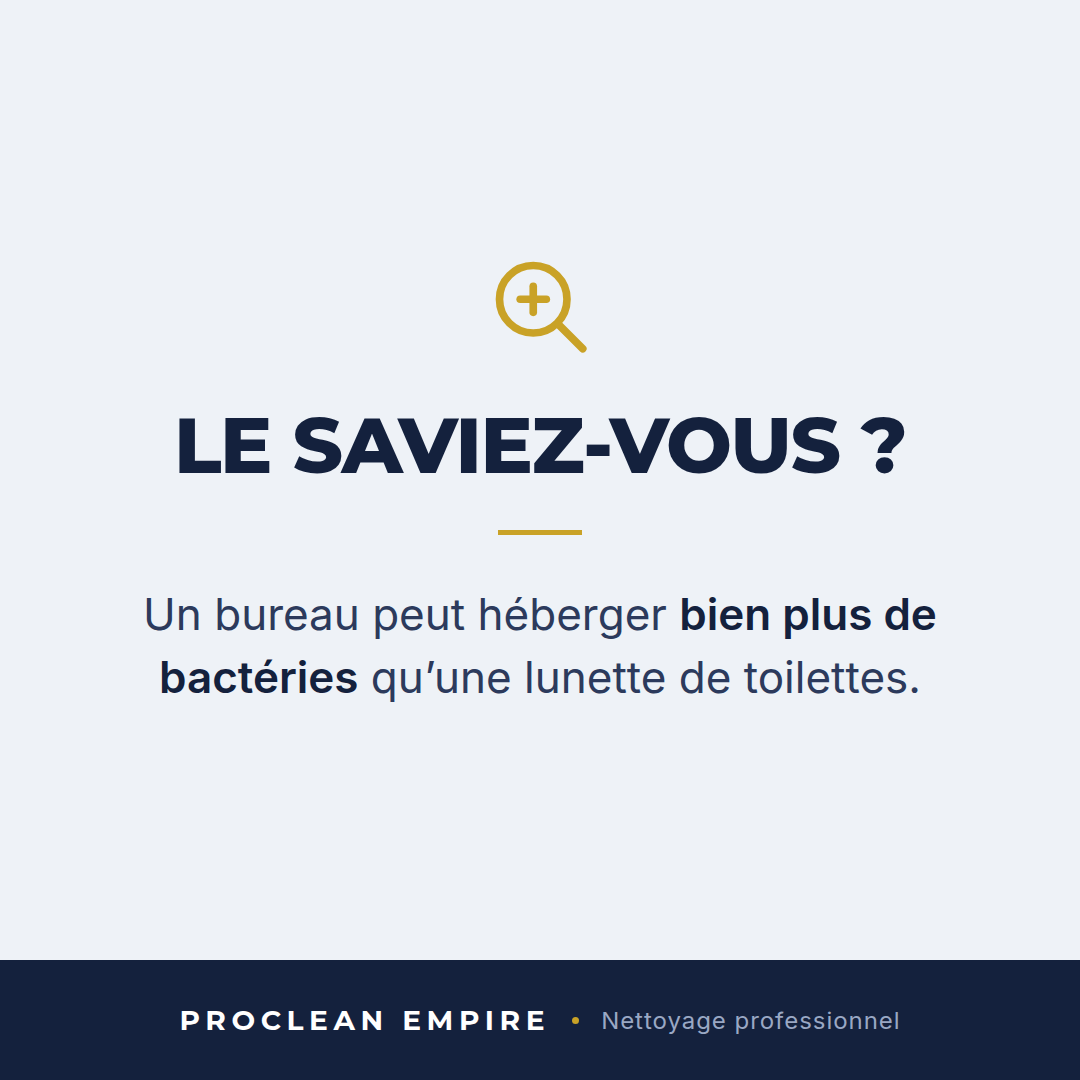
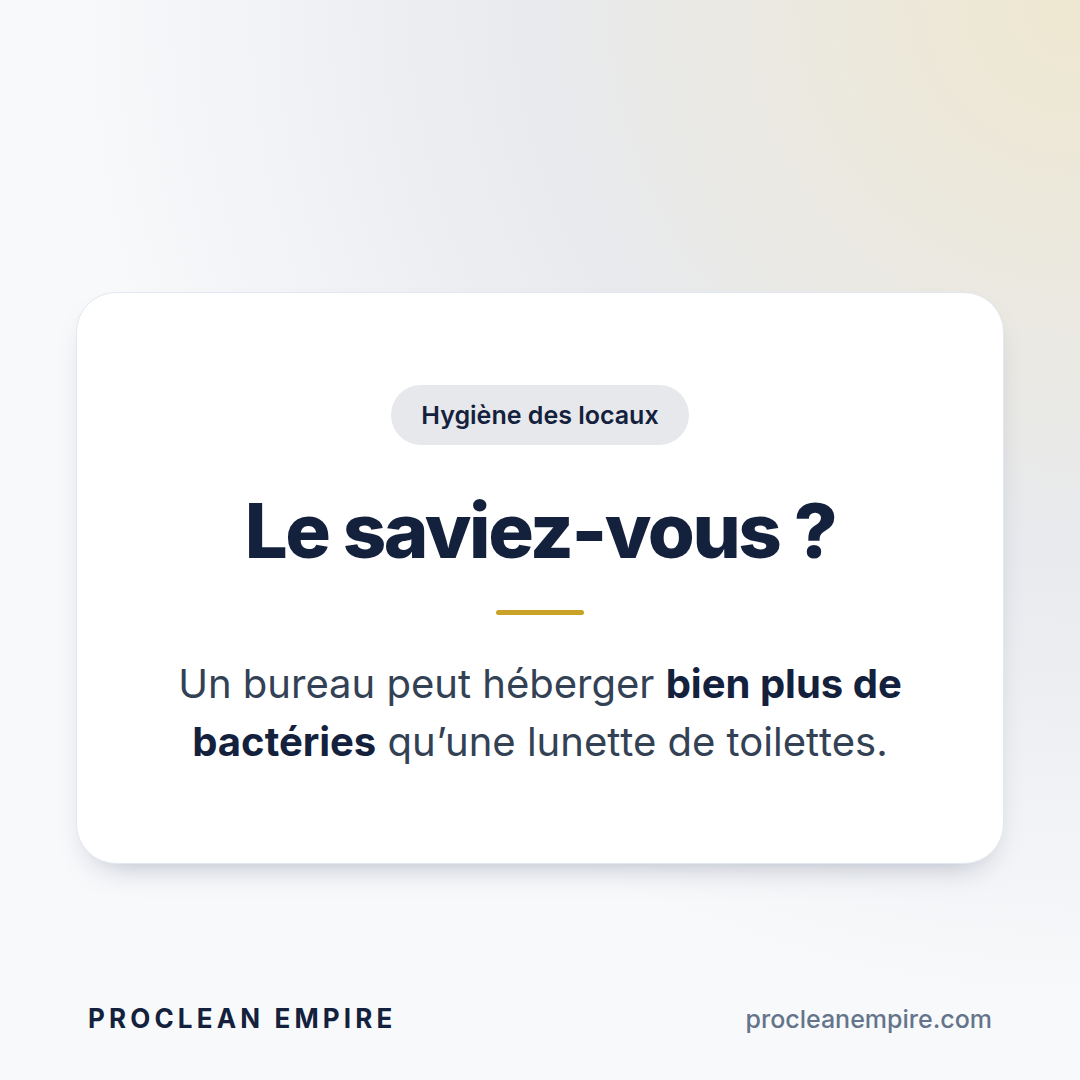
Rebuild post visuals in the site's own visual language
The first pass used flat navy cards, which inverted the site: globals.css
sets a light #f8f9fb ground with navy text, and the hero pairs a gold
radial glow with white rounded cards on soft shadows. The site also runs
on Inter throughout, not Montserrat.

Visuals now reuse those tokens directly - light ground, gold glow, pill
eyebrow, white rounded panel, navy primary button - so posts and site
read as one identity.

Adds a fourth visual for the Tuesday before/after slot, built from the
red leather photos already in public/media/photos.

Claude-Session: https://claude.ai/code/session_01Mxdu93gp3qUqySFn8KFPEm

diff --git a/docs/reseaux-sociaux/visuels/visuels.html b/docs/reseaux-sociaux/visuels/visuels.html
@@ -3,137 +3,241 @@
 <head>
 <meta charset="utf-8">
 <style>
-  @font-face { font-family: "Montserrat"; src: url("node_modules/@fontsource/montserrat/files/montserrat-latin-400-normal.woff2") format("woff2"); font-weight: 400; }
-  @font-face { font-family: "Montserrat"; src: url("node_modules/@fontsource/montserrat/files/montserrat-latin-600-normal.woff2") format("woff2"); font-weight: 600; }
-  @font-face { font-family: "Montserrat"; src: url("node_modules/@fontsource/montserrat/files/montserrat-latin-700-normal.woff2") format("woff2"); font-weight: 700; }
-  @font-face { font-family: "Montserrat"; src: url("node_modules/@fontsource/montserrat/files/montserrat-latin-800-normal.woff2") format("woff2"); font-weight: 800; }
+  /* Inter — la police du site (globals.css) */
   @font-face { font-family: "Inter"; src: url("node_modules/@fontsource/inter/files/inter-latin-400-normal.woff2") format("woff2"); font-weight: 400; }
+  @font-face { font-family: "Inter"; src: url("node_modules/@fontsource/inter/files/inter-latin-500-normal.woff2") format("woff2"); font-weight: 500; }
   @font-face { font-family: "Inter"; src: url("node_modules/@fontsource/inter/files/inter-latin-600-normal.woff2") format("woff2"); font-weight: 600; }
+  @font-face { font-family: "Inter"; src: url("node_modules/@fontsource/inter/files/inter-latin-700-normal.woff2") format("woff2"); font-weight: 700; }
+  @font-face { font-family: "Inter"; src: url("node_modules/@fontsource/inter/files/inter-latin-800-normal.woff2") format("woff2"); font-weight: 800; }
+
+  /* Jetons repris du site : globals.css + tailwind.config.ts */
+  :root {
+    --ground: #f8f9fb;      /* body background */
+    --navy: #14213d;        /* brand-500 */
+    --navy-deep: #0f1a32;   /* brand-700 */
+    --slate: #334155;       /* slate-700, texte courant */
+    --slate-line: #e2e8f0;  /* slate-200, bordure des cartes */
+    --gold: #c9a227;        /* accent-500 */
+    --shadow: 0 15px 35px -20px rgba(12, 27, 64, .4);
+  }
 
   * { margin: 0; padding: 0; box-sizing: border-box; }
   body { background: #888; font-family: Inter, sans-serif; }
 
-  .card { overflow: hidden; margin: 40px auto; display: flex; flex-direction: column; }
-  .stage { flex: 1; display: flex; flex-direction: column; justify-content: center; }
-  .band { flex: 0 0 auto; display: flex; align-items: center; }
+  .card { overflow: hidden; margin: 40px auto; position: relative; background: var(--ground); }
 
-  /* ============ 1 — LUNDI MATIN · 1080×1350 ============ */
-  #v1 { width: 1080px; height: 1350px; background: #14213d; }
-  #v1 .stage { padding: 0 96px; }
-  #v1 .eyebrow {
-    font-family: Inter; font-weight: 600; font-size: 26px;
-    letter-spacing: .28em; text-transform: uppercase; color: #c9a227;
+  /* halo doré du hero : radial-gradient circle at top right */
+  .glow {
+    position: absolute; inset: 0;
+    background: radial-gradient(circle at top right,
+      rgba(201,162,39,.20), rgba(20,33,61,.07) 36%, transparent 66%);
   }
-  #v1 .rule { width: 96px; height: 5px; background: #c9a227; margin: 34px 0 60px; }
+
+  .stage { position: relative; z-index: 1; height: 100%; display: flex; flex-direction: column; }
+
+  /* pastille eyebrow : rounded-full bg-[#14213d]/10 */
+  .pill {
+    align-self: flex-start;
+    display: inline-flex; align-items: center;
+    background: rgba(20,33,61,.10);
+    color: var(--navy);
+    font-weight: 600;
+    border-radius: 999px;
+  }
+
+  /* bouton : btn-primary, rounded-xl bg navy */
+  .btn {
+    align-self: flex-start;
+    display: inline-flex; align-items: center;
+    background: var(--navy); color: #fff; font-weight: 600;
+    border-radius: 20px;
+  }
+
+  /* carte blanche : rounded-2xl border-slate-200 bg-white shadow-soft */
+  .panel {
+    background: #fff;
+    border: 1px solid var(--slate-line);
+    border-radius: 40px;
+    box-shadow: var(--shadow);
+  }
+
+  .foot {
+    display: flex; align-items: center; justify-content: space-between;
+    border-top: 1px solid var(--slate-line);
+  }
+  .foot .brand { font-weight: 700; color: var(--navy); letter-spacing: .16em; }
+  .foot .site { font-weight: 500; color: #64748b; }
+
+  /* ============ 1 — LUNDI · 1080×1350 ============ */
+  #v1 { width: 1080px; height: 1350px; }
+  #v1 .stage { padding: 92px 88px 0; }
+  #v1 .pill { padding: 17px 30px; font-size: 27px; margin-bottom: 44px; }
   #v1 h1 {
-    font-family: Montserrat; font-weight: 800; font-size: 80px; line-height: 1.18;
-    letter-spacing: -.022em; color: #fff;
+    font-weight: 800; font-size: 84px; line-height: 1.13;
+    letter-spacing: -.03em; color: var(--navy);
   }
-  #v1 .hl {
-    background-image: linear-gradient(to top, #c9a227 16px, rgba(0,0,0,0) 16px);
-    padding: 0 4px;
+  #v1 h1 .hl {
+    background-image: linear-gradient(to top, rgba(201,162,39,.45) 20px, rgba(0,0,0,0) 20px);
+    padding: 0 3px;
   }
   #v1 .sub {
-    margin-top: 58px; font-family: Inter; font-weight: 400; font-size: 35px;
-    line-height: 1.5; color: #a7b4cd; max-width: 730px;
+    margin-top: 40px; font-size: 34px; line-height: 1.55; color: var(--slate); max-width: 780px;
   }
-  #v1 .band { height: 112px; background: #c9a227; justify-content: space-between; padding: 0 96px; }
-  #v1 .band .name { font-family: Montserrat; font-weight: 700; font-size: 27px; letter-spacing: .2em; color: #14213d; }
-  #v1 .band .loc { font-family: Inter; font-weight: 600; font-size: 23px; letter-spacing: .07em; color: #14213d; opacity: .8; }
+  #v1 .panel { margin-top: auto; padding: 22px; border-radius: 44px; }
+  #v1 .panel img { width: 100%; height: 420px; object-fit: cover; object-position: center 62%; border-radius: 30px; display: block; }
+  #v1 .foot { margin-top: 40px; padding: 34px 0 42px; }
+  #v1 .foot .brand { font-size: 27px; }
+  #v1 .foot .site { font-size: 26px; }
 
-  /* ============ 2 — MERCREDI MATIN · 1080×1080 ============ */
-  #v2 { width: 1080px; height: 1080px; background: #eef2f7; }
-  #v2 .stage { padding: 0 92px; align-items: center; text-align: center; }
-  #v2 .glass { margin-bottom: 46px; }
+  /* ============ 2 — MERCREDI · 1080×1080 ============ */
+  #v2 { width: 1080px; height: 1080px; }
+  #v2 .stage { padding: 76px 76px 0; justify-content: center; }
+  #v2 .panel { flex: 0 0 auto; padding: 92px 68px; display: flex; flex-direction: column; align-items: center; justify-content: center; text-align: center; }
+  #v2 .pill { align-self: center; padding: 15px 30px; font-size: 25px; margin-bottom: 46px; }
   #v2 h1 {
-    font-family: Montserrat; font-weight: 800; font-size: 78px; line-height: 1;
-    letter-spacing: -.018em; color: #14213d; white-space: nowrap;
+    font-weight: 800; font-size: 76px; line-height: 1.05;
+    letter-spacing: -.032em; color: var(--navy); white-space: nowrap;
   }
-  #v2 .dash { width: 84px; height: 5px; background: #c9a227; margin: 46px 0 48px; }
-  #v2 p {
-    font-family: Inter; font-weight: 400; font-size: 44px; line-height: 1.42;
-    color: #2c3a5c; max-width: 830px;
-  }
-  #v2 p b { font-weight: 600; color: #14213d; }
-  #v2 .band { height: 120px; background: #14213d; justify-content: center; gap: 22px; }
-  #v2 .band .name { font-family: Montserrat; font-weight: 700; font-size: 28px; letter-spacing: .2em; color: #fff; }
-  #v2 .band .dot { width: 7px; height: 7px; border-radius: 50%; background: #c9a227; }
-  #v2 .band .loc { font-family: Inter; font-weight: 400; font-size: 24px; letter-spacing: .04em; color: #9aa8c4; }
+  #v2 .dash { width: 88px; height: 5px; background: var(--gold); border-radius: 3px; margin: 40px 0 40px; }
+  #v2 p { font-size: 40px; line-height: 1.45; color: var(--slate); max-width: 790px; }
+  #v2 p b { font-weight: 700; color: var(--navy); }
+  #v2 .foot { position: absolute; left: 88px; right: 88px; bottom: 46px; padding: 0; border-top: 0; }
+  #v2 .foot .brand { font-size: 26px; }
+  #v2 .foot .site { font-size: 25px; }
 
-  /* ============ 3 — VENDREDI MATIN · 1080×1350 ============ */
-  #v3 { width: 1080px; height: 1350px; background: #14213d; }
-  #v3 .stage { padding: 0 92px; align-items: center; text-align: center; }
-  #v3 .stars { display: flex; gap: 18px; margin-bottom: 66px; }
+  /* ============ 3 — VENDREDI · 1080×1350 ============ */
+  #v3 { width: 1080px; height: 1350px; }
+  #v3 .stage { padding: 88px 84px 0; }
+  #v3 .pill { padding: 17px 30px; font-size: 26px; margin-bottom: 40px; }
+  #v3 .panel { padding: 70px 62px; }
+  #v3 .stars { display: flex; gap: 14px; margin-bottom: 42px; }
   #v3 .quote {
-    font-family: Montserrat; font-weight: 600; font-size: 60px; line-height: 1.36;
-    letter-spacing: -.012em; color: #fff; max-width: 870px;
+    font-weight: 700; font-size: 52px; line-height: 1.36;
+    letter-spacing: -.026em; color: var(--navy);
   }
-  #v3 .who {
-    margin-top: 64px; font-family: Inter; font-weight: 600; font-size: 30px;
-    letter-spacing: .14em; text-transform: uppercase; color: #c9a227;
+  #v3 .who { margin-top: 46px; font-size: 29px; font-weight: 700; color: var(--navy); }
+  #v3 .src { margin-top: 8px; font-size: 26px; font-weight: 500; color: #64748b; }
+  #v3 .score {
+    margin-top: 46px; padding-top: 40px; border-top: 1px solid var(--slate-line);
+    display: flex; align-items: baseline; gap: 18px;
   }
-  #v3 .src { margin-top: 14px; font-family: Inter; font-weight: 400; font-size: 25px; color: #8e9cbb; }
-  #v3 .band { height: 136px; background: #c9a227; justify-content: center; gap: 26px; }
-  #v3 .band .score { font-family: Montserrat; font-weight: 800; font-size: 46px; letter-spacing: -.01em; color: #14213d; }
-  #v3 .band .sep { width: 7px; height: 7px; border-radius: 50%; background: #14213d; opacity: .5; }
-  #v3 .band .lab { font-family: Inter; font-weight: 600; font-size: 27px; letter-spacing: .12em; text-transform: uppercase; color: #14213d; }
+  #v3 .score .n { font-size: 62px; font-weight: 800; letter-spacing: -.035em; color: var(--navy); }
+  #v3 .score .l { font-size: 28px; font-weight: 500; color: var(--slate); }
+  #v3 .btn { margin-top: auto; padding: 27px 44px; font-size: 30px; }
+  #v3 .foot { margin-top: 40px; padding: 34px 0 42px; }
+  #v3 .foot .brand { font-size: 27px; }
+  #v3 .foot .site { font-size: 26px; }
+
+  /* ============ 4 — AVANT / APRÈS · 1080×1350 ============ */
+  #v4 { width: 1080px; height: 1350px; }
+  #v4 .stage { padding: 88px 84px 0; }
+  #v4 .pill { padding: 17px 30px; font-size: 26px; margin-bottom: 38px; }
+  #v4 h1 {
+    font-weight: 800; font-size: 68px; line-height: 1.12;
+    letter-spacing: -.032em; color: var(--navy); margin-bottom: 44px;
+  }
+  #v4 .panel { padding: 20px; border-radius: 44px; display: flex; gap: 16px; }
+  #v4 .shot { position: relative; flex: 1; }
+  #v4 .shot img { width: 100%; height: 470px; object-fit: cover; border-radius: 30px; display: block; }
+  #v4 .shot .lab {
+    position: absolute; left: 22px; top: 22px;
+    font-size: 22px; font-weight: 700; letter-spacing: .14em;
+    padding: 12px 22px; border-radius: 999px;
+  }
+  #v4 .shot .lab.a { background: rgba(255,255,255,.92); color: var(--navy); }
+  #v4 .shot .lab.b { background: var(--gold); color: var(--navy); }
+  #v4 .sub { margin-top: 40px; font-size: 32px; line-height: 1.5; color: var(--slate); }
+  #v4 .foot { margin-top: auto; padding: 34px 0 42px; }
+  #v4 .foot .brand { font-size: 27px; }
+  #v4 .foot .site { font-size: 26px; }
 </style>
 </head>
 <body>
 
 <!-- 1 — LUNDI 3 AOÛT, 08:00 -->
 <section class="card" id="v1">
+  <div class="glow"></div>
   <div class="stage">
-    <span class="eyebrow">Propreté professionnelle</span>
-    <div class="rule"></div>
+    <span class="pill">Propreté professionnelle</span>
     <h1>Un bureau propre n&rsquo;est pas un détail.<br>C&rsquo;est un <span class="hl">levier</span>.</h1>
     <p class="sub">Concentration, image de marque, bien-être des équipes : tout commence par un environnement maîtrisé.</p>
-  </div>
-  <div class="band">
-    <span class="name">PROCLEAN EMPIRE</span>
-    <span class="loc">Pontoise &middot; Île-de-France</span>
+    <div class="panel">
+      <img src="../../../../../home/user/https-procleanempire-multiservice.manus.space/public/media/photos/hero-showcase.jpg" alt="">
+    </div>
+    <div class="foot">
+      <span class="brand">PROCLEAN EMPIRE</span>
+      <span class="site">procleanempire.com</span>
+    </div>
   </div>
 </section>
 
 <!-- 2 — MERCREDI 5 AOÛT, 08:00 -->
 <section class="card" id="v2">
+  <div class="glow"></div>
   <div class="stage">
-    <svg class="glass" width="108" height="108" viewBox="0 0 24 24" fill="none"
-         stroke="#c9a227" stroke-width="1.7" stroke-linecap="round">
-      <circle cx="10.5" cy="10.5" r="7.5"/>
-      <line x1="16" y1="16" x2="21.5" y2="21.5"/>
-      <line x1="7.6" y1="10.5" x2="13.4" y2="10.5"/>
-      <line x1="10.5" y1="7.6" x2="10.5" y2="13.4"/>
-    </svg>
-    <h1>LE SAVIEZ-VOUS&nbsp;?</h1>
-    <div class="dash"></div>
-    <p>Un bureau peut héberger <b>bien plus de bactéries</b> qu&rsquo;une lunette de toilettes.</p>
-  </div>
-  <div class="band">
-    <span class="name">PROCLEAN EMPIRE</span>
-    <span class="dot"></span>
-    <span class="loc">Nettoyage professionnel</span>
+    <div class="panel">
+      <span class="pill">Hygiène des locaux</span>
+      <h1>Le saviez-vous&nbsp;?</h1>
+      <div class="dash"></div>
+      <p>Un bureau peut héberger <b>bien plus de bactéries</b> qu&rsquo;une lunette de toilettes.</p>
+    </div>
+    <div class="foot">
+      <span class="brand">PROCLEAN EMPIRE</span>
+      <span class="site">procleanempire.com</span>
+    </div>
   </div>
 </section>
 
 <!-- 3 — VENDREDI 7 AOÛT, 08:00 -->
 <section class="card" id="v3">
+  <div class="glow"></div>
   <div class="stage">
-    <div class="stars">
-      <svg width="64" height="64" viewBox="0 0 24 24" fill="#c9a227"><path d="M12 2.4l2.9 5.9 6.5.9-4.7 4.6 1.1 6.5-5.8-3-5.8 3 1.1-6.5L2.6 9.2l6.5-.9z"/></svg>
-      <svg width="64" height="64" viewBox="0 0 24 24" fill="#c9a227"><path d="M12 2.4l2.9 5.9 6.5.9-4.7 4.6 1.1 6.5-5.8-3-5.8 3 1.1-6.5L2.6 9.2l6.5-.9z"/></svg>
-      <svg width="64" height="64" viewBox="0 0 24 24" fill="#c9a227"><path d="M12 2.4l2.9 5.9 6.5.9-4.7 4.6 1.1 6.5-5.8-3-5.8 3 1.1-6.5L2.6 9.2l6.5-.9z"/></svg>
-      <svg width="64" height="64" viewBox="0 0 24 24" fill="#c9a227"><path d="M12 2.4l2.9 5.9 6.5.9-4.7 4.6 1.1 6.5-5.8-3-5.8 3 1.1-6.5L2.6 9.2l6.5-.9z"/></svg>
-      <svg width="64" height="64" viewBox="0 0 24 24" fill="#c9a227"><path d="M12 2.4l2.9 5.9 6.5.9-4.7 4.6 1.1 6.5-5.8-3-5.8 3 1.1-6.5L2.6 9.2l6.5-.9z"/></svg>
+    <span class="pill">Avis clients</span>
+    <div class="panel">
+      <div class="stars">
+        <svg width="54" height="54" viewBox="0 0 24 24" fill="#c9a227"><path d="M12 2.4l2.9 5.9 6.5.9-4.7 4.6 1.1 6.5-5.8-3-5.8 3 1.1-6.5L2.6 9.2l6.5-.9z"/></svg>
+        <svg width="54" height="54" viewBox="0 0 24 24" fill="#c9a227"><path d="M12 2.4l2.9 5.9 6.5.9-4.7 4.6 1.1 6.5-5.8-3-5.8 3 1.1-6.5L2.6 9.2l6.5-.9z"/></svg>
+        <svg width="54" height="54" viewBox="0 0 24 24" fill="#c9a227"><path d="M12 2.4l2.9 5.9 6.5.9-4.7 4.6 1.1 6.5-5.8-3-5.8 3 1.1-6.5L2.6 9.2l6.5-.9z"/></svg>
+        <svg width="54" height="54" viewBox="0 0 24 24" fill="#c9a227"><path d="M12 2.4l2.9 5.9 6.5.9-4.7 4.6 1.1 6.5-5.8-3-5.8 3 1.1-6.5L2.6 9.2l6.5-.9z"/></svg>
+        <svg width="54" height="54" viewBox="0 0 24 24" fill="#c9a227"><path d="M12 2.4l2.9 5.9 6.5.9-4.7 4.6 1.1 6.5-5.8-3-5.8 3 1.1-6.5L2.6 9.2l6.5-.9z"/></svg>
+      </div>
+      <div class="quote">&laquo;&nbsp;Service sérieux, équipe professionnelle et résultat impeccable à chaque intervention.&nbsp;&raquo;</div>
+      <div class="who">Concierg&rsquo;air</div>
+      <div class="src">Avis Google vérifié</div>
+      <div class="score">
+        <span class="n">5,0 / 5</span>
+        <span class="l">sur 30 avis Google</span>
+      </div>
     </div>
-    <div class="quote">&laquo;&nbsp;Service sérieux, équipe professionnelle et résultat impeccable à chaque intervention.&nbsp;&raquo;</div>
-    <div class="who">Concierg&rsquo;air</div>
-    <div class="src">Avis Google vérifié</div>
+    <span class="btn">Demander un devis</span>
+    <div class="foot">
+      <span class="brand">PROCLEAN EMPIRE</span>
+      <span class="site">procleanempire.com</span>
+    </div>
   </div>
-  <div class="band">
-    <span class="score">5,0 / 5</span>
-    <span class="sep"></span>
-    <span class="lab">30 avis Google</span>
+</section>
+
+<!-- 4 — MARDI 4 AOÛT, 08:00 -->
+<section class="card" id="v4">
+  <div class="glow"></div>
+  <div class="stage">
+    <span class="pill">Avant / Après</span>
+    <h1>Le remplacement était envisagé.<br>Il n&rsquo;a pas été nécessaire.</h1>
+    <div class="panel">
+      <div class="shot">
+        <img src="../../../../../home/user/https-procleanempire-multiservice.manus.space/public/media/photos/cuir-rouge-avant.jpeg" alt="">
+        <span class="lab a">AVANT</span>
+      </div>
+      <div class="shot">
+        <img src="../../../../../home/user/https-procleanempire-multiservice.manus.space/public/media/photos/cuir-rouge-apres.jpeg" alt="">
+        <span class="lab b">APRÈS</span>
+      </div>
+    </div>
+    <p class="sub">Le cuir ne s&rsquo;use pas toujours. Souvent, il s&rsquo;encrasse — et un traitement adapté à la matière le fait repartir pour des années.</p>
+    <div class="foot">
+      <span class="brand">PROCLEAN EMPIRE</span>
+      <span class="site">procleanempire.com</span>
+    </div>
   </div>
 </section>
 

diff --git a/docs/reseaux-sociaux/visuels/shoot.js b/docs/reseaux-sociaux/visuels/shoot.js
@@ -1,26 +1,22 @@
 const { chromium } = require("playwright");
 const path = require("path");
-
 const DIR = __dirname;
-
 (async () => {
   const browser = await chromium.launch({ executablePath: "/opt/pw-browsers/chromium-1194/chrome-linux/chrome" });
   const page = await browser.newPage({ viewport: { width: 1200, height: 1500 }, deviceScaleFactor: 1 });
   await page.goto("file://" + path.join(DIR, "visuels.html"));
   await page.evaluate(() => document.fonts.ready);
-  await page.waitForTimeout(600);
-
+  await page.waitForTimeout(900);
   const shots = [
     ["#v1", "01-lundi-bureau-propre-1080x1350.png"],
     ["#v2", "02-mercredi-le-saviez-vous-1080x1080.png"],
-    ["#v3", "03-vendredi-avis-google-1080x1350.png"]
+    ["#v3", "03-vendredi-avis-google-1080x1350.png"],
+    ["#v4", "04-mardi-avant-apres-cuir-1080x1350.png"]
   ];
-
   for (const [sel, file] of shots) {
     const el = await page.$(sel);
     await el.screenshot({ path: path.join(DIR, "out", file) });
     console.log("ok " + file);
   }
-
   await browser.close();
 })();
